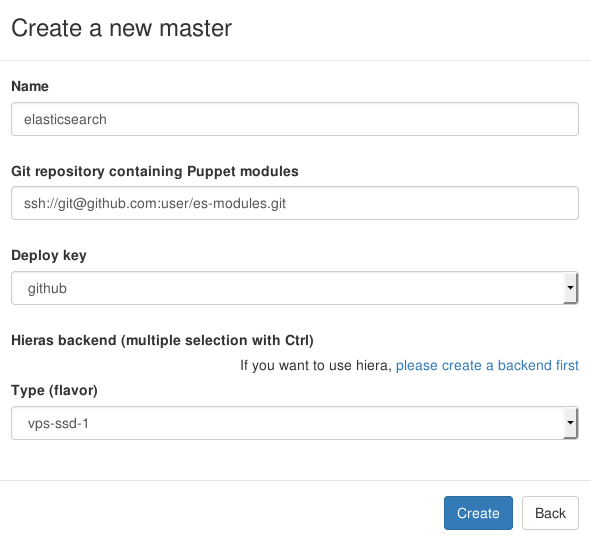
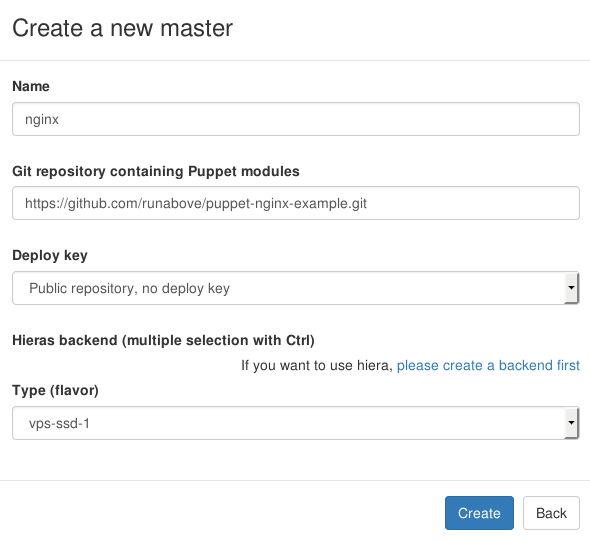
use example nginx module

diff --git a/en/_posts/2015-12-08-start-puppet-master.md b/en/_posts/2015-12-08-start-puppet-master.md
@@ -42,6 +42,8 @@ Go to `Masters` tab and create your master. A straightforward form will ask you 
 - `Deploy key`: If your Git repository is accessed by SSH you can select your key pair here.
 - `Type`: The size of your master. A bigger master will be able to handle more agents concurrently.
 
+You may use our example repository: `https://github.com/runabove/puppet-nginx-example.git`, in that case you won't need a deployment key. The puppet module installs _nginx_ and runs a web server (obviously do not run it on a production host!).
+
 Connect an agent to your master
 ===============================
 
@@ -50,6 +52,8 @@ On the page with the details of your master you will find the command used for c
 ![Sign agent certificate](/kb/images/2015-12-08-start-puppet-master/certificate.png)
 
 Sign the certificate and your agent will be able to fetch its configuration during the next run.
+
+In the case you used the example repository you can now browse the web page served by your agent to check it is working properly.
 
 For more explanations, see the [dedicated guide][5] about connecting an agent to your Puppet master.
 
